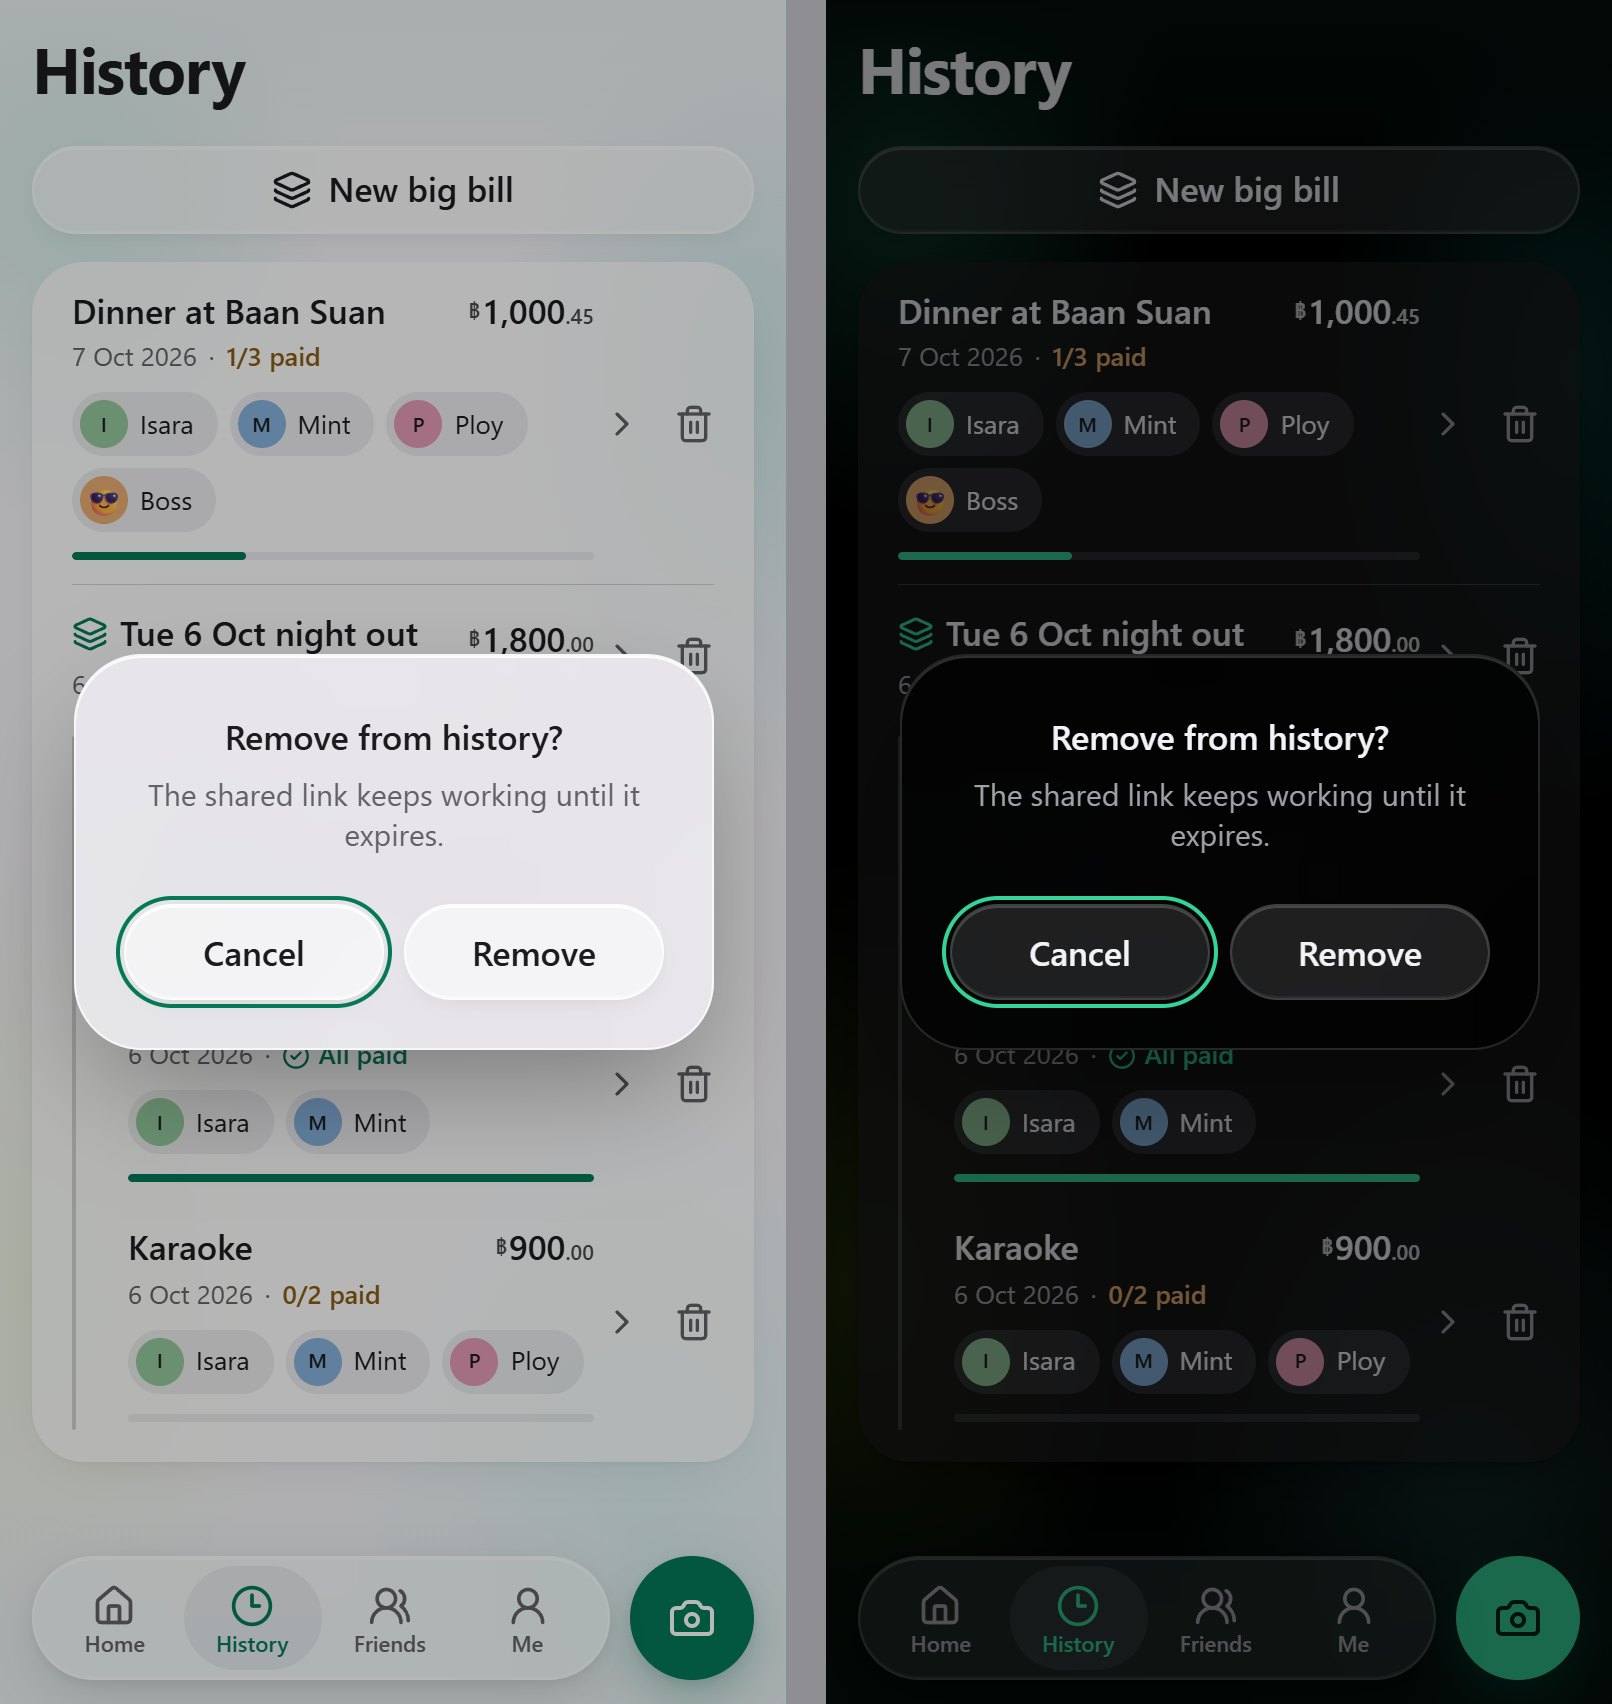
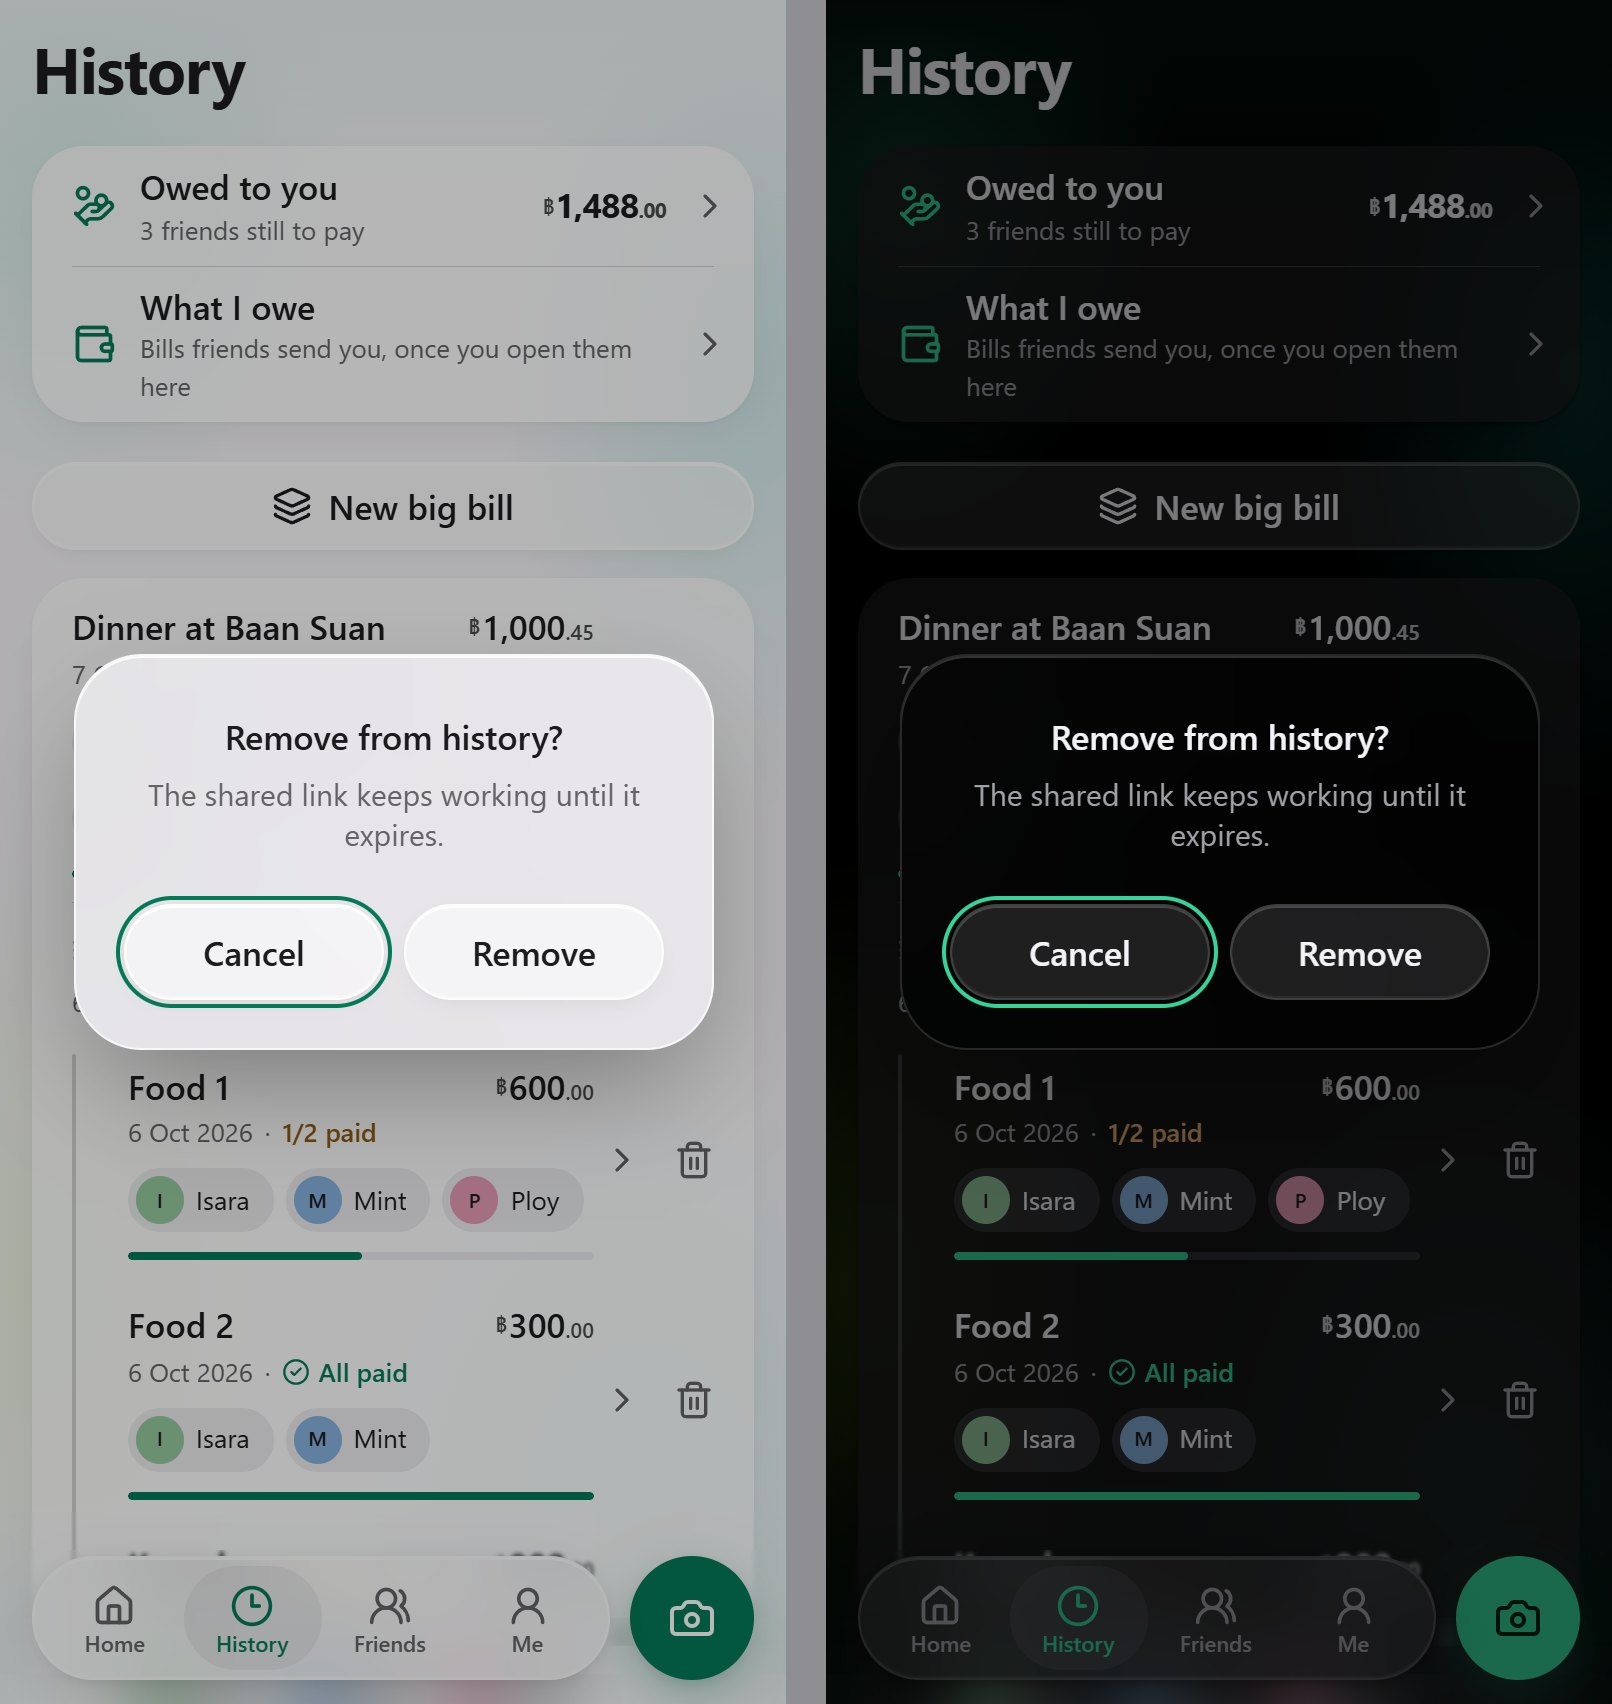
README screenshots: What I owe and Owed to you; History cards update
- New screenshots of What I owe (on a friend's phone) and Owed to you,
  shown in the README; all screenshots retaken with the current app.
- The Owed to you card on History updates as History refreshes, so it
  shows on the first visit.

diff --git a/src/components/OwedLinks.tsx b/src/components/OwedLinks.tsx
@@ -2,18 +2,26 @@
 
 import { ChevronRight, HandCoins, Wallet } from "lucide-react";
 import Link from "next/link";
-import { useState } from "react";
-import { getHistory, getSeen } from "@/lib/client/storage";
+import { useEffect, useState } from "react";
+import { getHistory, getSeen, HISTORY_EVENT } from "@/lib/client/storage";
 import { owedToYou } from "@/lib/owed";
 import { ICON, Money } from "./ui";
 
+function owedSummary() {
+  const friends = owedToYou(getHistory());
+  const thb = friends.filter((f) => f.currency === "THB").reduce((s, f) => s + f.total, 0);
+  return { thb, people: new Set(friends.map((f) => f.key)).size };
+}
+
 /** At the top of History: "Owed to you" (when friends owe you) and "What I owe" (always, so friends can find it). */
 export function OwedLinks() {
-  const [owed] = useState(() => {
-    const friends = owedToYou(getHistory());
-    const thb = friends.filter((f) => f.currency === "THB").reduce((s, f) => s + f.total, 0);
-    return { thb, people: new Set(friends.map((f) => f.key)).size };
-  });
+  const [owed, setOwed] = useState(owedSummary);
+  // History refreshes its payments when it opens: follow along.
+  useEffect(() => {
+    const update = () => setOwed(owedSummary());
+    window.addEventListener(HISTORY_EVENT, update);
+    return () => window.removeEventListener(HISTORY_EVENT, update);
+  }, []);
   const [seen] = useState(() => getSeen().length);
   return (
     <ul className="card rows overflow-hidden">

diff --git a/src/lib/client/storage.ts b/src/lib/client/storage.ts
@@ -111,8 +111,12 @@ export function upsertHistory(entry: HistoryEntry): void {
   save(HISTORY, [entry, ...rest].slice(0, 100));
 }
 
+/** Fired when History entries change, so summaries (like "Owed to you") can update. */
+export const HISTORY_EVENT = "bs-history";
+
 export function patchHistory(id: string, patch: Partial<HistoryEntry>): void {
   save(HISTORY, getHistory().map((h) => (h.id === id ? { ...h, ...patch } : h)));
+  window.dispatchEvent(new Event(HISTORY_EVENT));
 }
 
 export function deleteHistory(id: string): void {

diff --git a/README.md b/README.md
@@ -11,6 +11,11 @@ Split a restaurant bill with friends in Thailand: scan the receipt, tick who had
   <img src="docs/screenshots/9-shared.jpg" alt="Shared bill" width="380">
 </p>
 
+<p>
+  <img src="docs/screenshots/16-what-i-owe.jpg" alt="What I owe, on a friend's phone" width="380">
+  <img src="docs/screenshots/17-owed-to-you.jpg" alt="Owed to you" width="380">
+</p>
+
 More screenshots (light | dark) in [`docs/screenshots`](docs/screenshots). The link preview friends see in chat:
 
 <img src="docs/screenshots/share-preview.png" alt="Link preview card" width="600">
